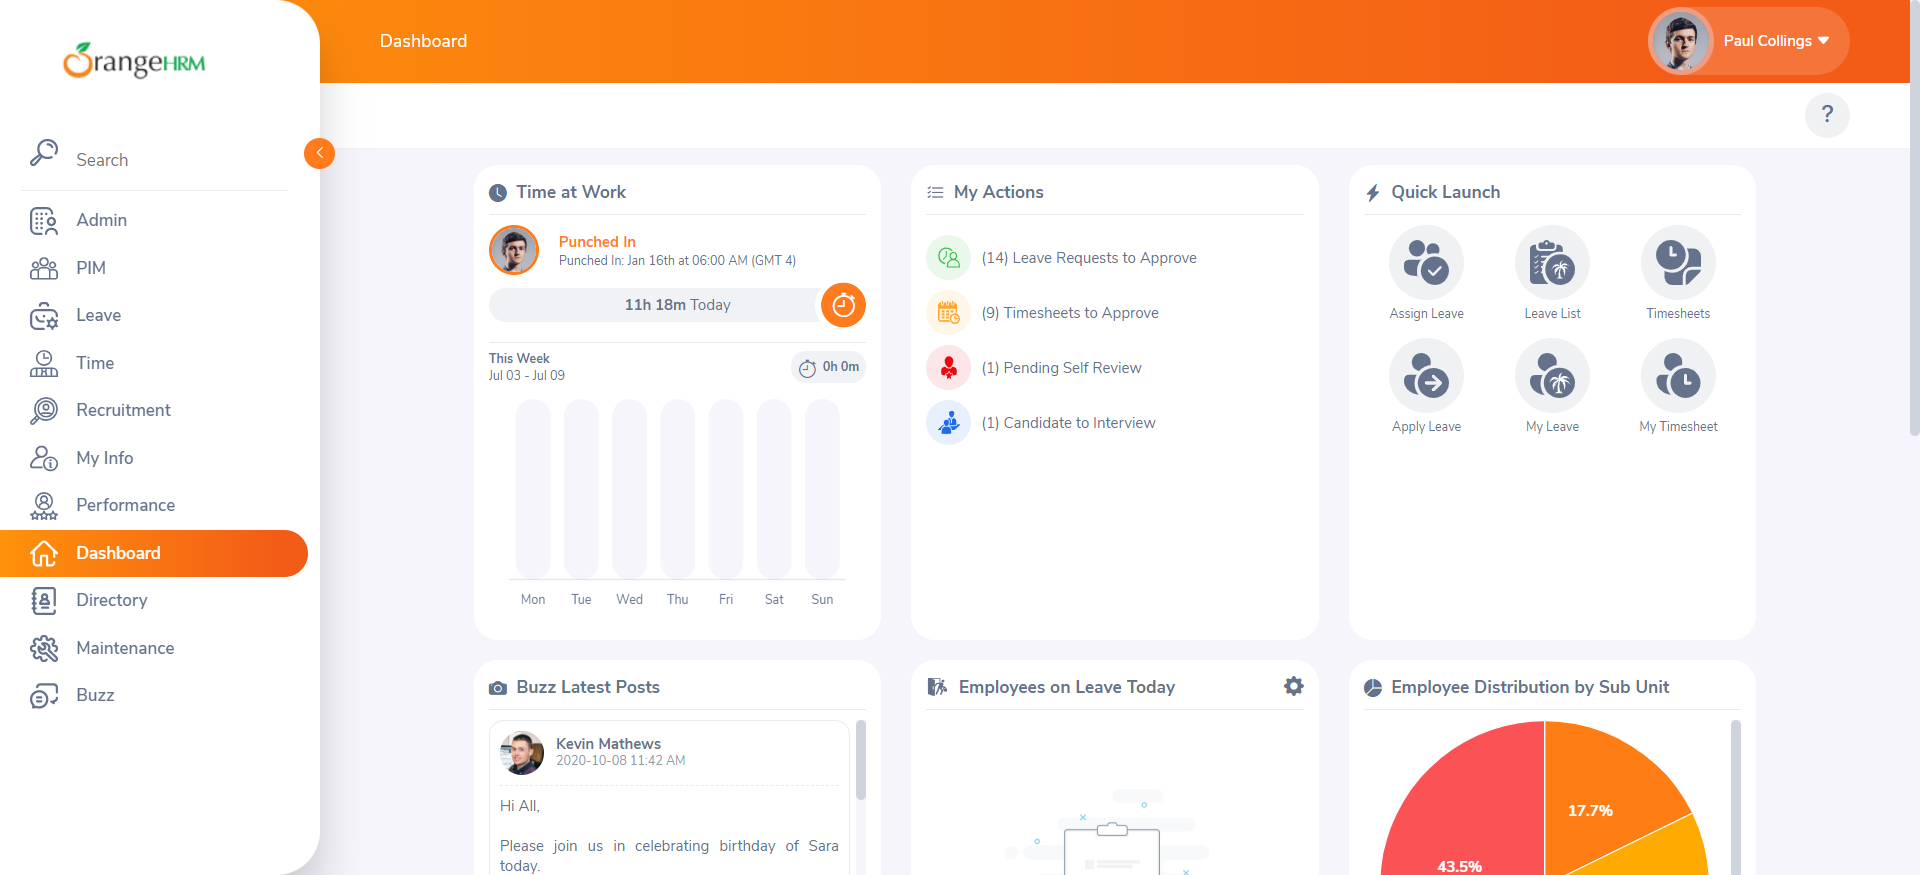
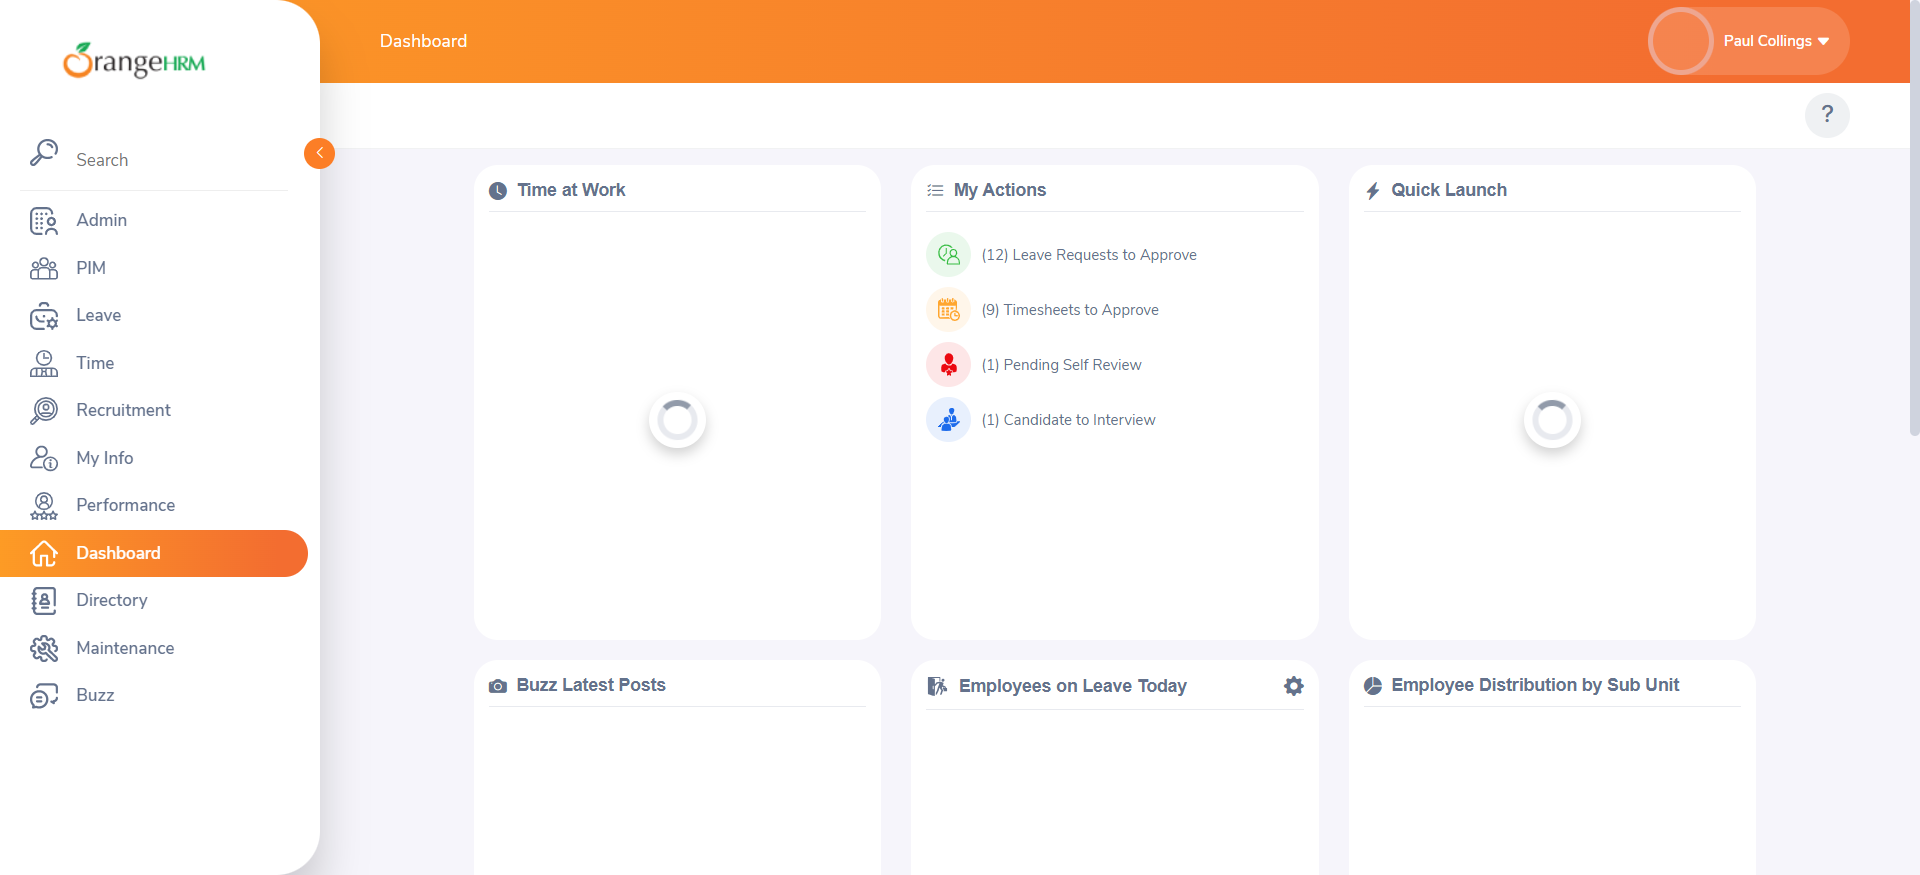
Remove quit in second test, commented out second test

diff --git a/login/login.py b/login/login.py
@@ -57,29 +57,26 @@ time.sleep(5)
 # # Waiting for 5 seconds (for pages to refresh)
 # time.sleep(5)
 
-# Log the test step of inputting the correct credentials
-logging.info('INITIATE SECOND TEST - INPUTTING THE CORRECT CREDENTIALS')
+# # Log the test step of inputting the correct credentials
+# logging.info('INITIATE SECOND TEST - INPUTTING THE CORRECT CREDENTIALS')
 
-# Input the correct credentials to see its pass - Find element by NAME
-browser.find_element(By.NAME, "username").send_keys(email)
-browser.find_element(By.NAME, "password").send_keys(password)
+# # Input the correct credentials to see its pass - Find element by NAME
+# browser.find_element(By.NAME, "username").send_keys(email)
+# browser.find_element(By.NAME, "password").send_keys(password)
 
-# Click login - Find element by XPATH
-browser.find_element(By.XPATH, '//*[@id="app"]/div[1]/div/div[1]/div/div[2]/div[2]/form/div[3]/button').click()
+# # Click login - Find element by XPATH
+# browser.find_element(By.XPATH, '//*[@id="app"]/div[1]/div/div[1]/div/div[2]/div[2]/form/div[3]/button').click()
 
-time.sleep(5)
+# time.sleep(5)
 
-# Take a screenshot
-browser.save_screenshot("success_Login.png")
-print('SECOND TEST .... SUCCESS - SUCCESSFUL LOGIN')
+# # Take a screenshot
+# browser.save_screenshot("success_Login.png")
+# print('SECOND TEST .... SUCCESS - SUCCESSFUL LOGIN')
 
-# Log the test step and result
-logging.info('SECOND TEST .... SUCCESS - SUCCESSFUL LOGIN')
+# # Log the test step and result
+# logging.info('SECOND TEST .... SUCCESS - SUCCESSFUL LOGIN')
 
-time.sleep(5)
-
-# Close the WebDriver
-# browser.quit()
+# time.sleep(5)
 
 # ---------------------------------------------------- THIRD TEST - LOGOUT AND FORGOT ----------------------------------------------------------------------------- #
 
@@ -98,7 +95,7 @@ logging.info('INITIATE THIRD TEST - FORGOT CREDENTIALS')
 browser.refresh()
 
 # Click the forgot password button to go to reset password option
-browser.find_element(By.CLASS_NAME, 'oxd-text oxd-text--p orangehrm-login-forgot-header').click()
+browser.find_element(By.XPATH, '//*[@id="app"]/div[1]/div/div[1]/div/div[2]/div[2]/form/div[4]/p').click()
 
 time.sleep(3)
 
